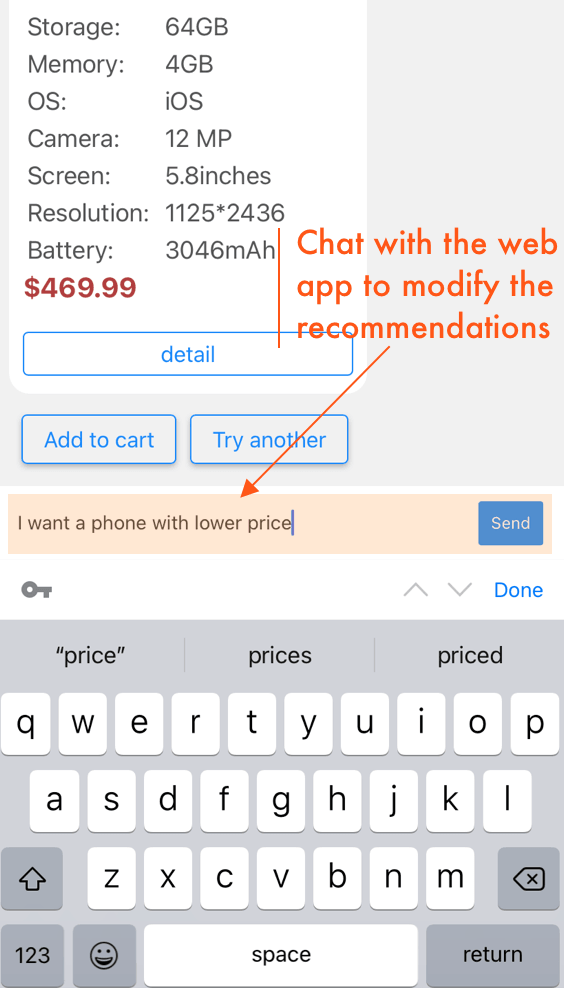
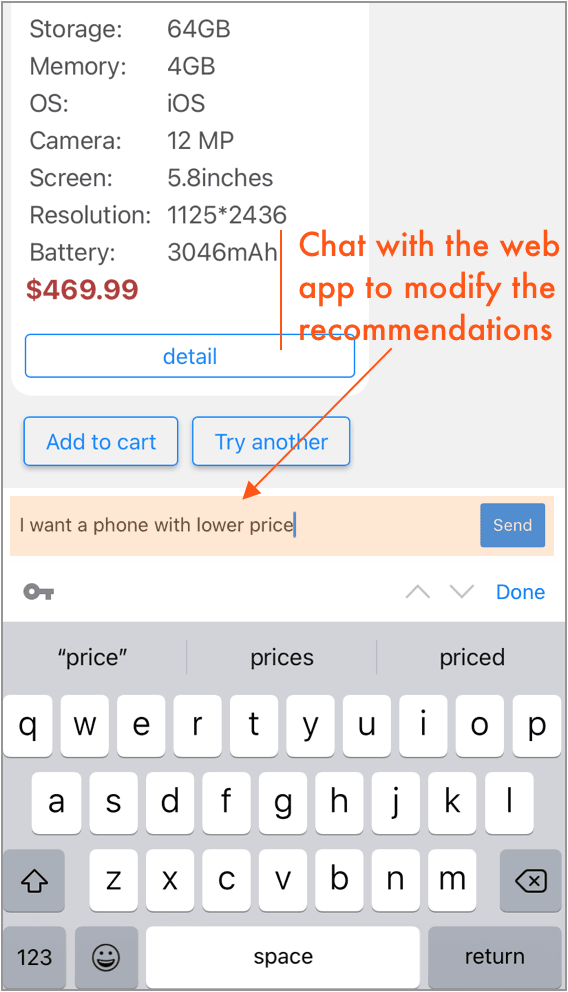
introduction update!

diff --git a/src/views/Index.vue b/src/views/Index.vue
@@ -56,7 +56,7 @@
         recommendations may not fit your taste, we encourage you to <b>tune recommendations by chatting</b> with the web
         app. All mobile phone information used in this experiment was from gsmarena.com.</p>
       <van-image
-          width="100%"
+          width="90%"
           fit="contain"
           :src="require('../assets/imgs/typing.png')"
       />
@@ -68,7 +68,7 @@
         </li>
         <li><b>Step 2:</b> Fill out your personal background.</li>
         <van-image
-            width="100%"
+            width="90%"
             fit="contain"
             :src="require('../assets/imgs/background.png')"
         />
@@ -78,18 +78,18 @@
 
         <van-image
             v-if="condition<3"
-            width="100%"
+            width="90%"
             fit="contain"
             :src="require('../assets/imgs/chatintro-base.png')"
         />
         <van-image
             v-else
-            width="100%"
+            width="90%"
             fit="contain"
             :src="require('../assets/imgs/chatintro-avatar.png')"
         />
         <van-image
-            width="100%"
+            width="90%"
             fit="contain"
             :src="require('../assets/imgs/tips.png')"
         />
@@ -97,13 +97,13 @@
         <li><b>Step 4:</b> Specify what kinds of phones you are looking for in a pop-up window.</li>
         <van-image
             v-if="condition<3"
-            width="100%"
+            width="90%"
             fit="contain"
             :src="require('../assets/imgs/preference-base.png')"
         />
         <van-image
             v-else
-            width="100%"
+            width="90%"
             fit="contain"
             :src="require('../assets/imgs/preference-avatar.png')"
         />
@@ -111,7 +111,7 @@
           you like or dislike the phone.
         </li>
         <van-image
-            width="100%"
+            width="90%"
             fit="contain"
             :src="require('../assets/imgs/card.png')"
         />
@@ -119,13 +119,13 @@
         <li><b>Step 6:</b> You need to rate the phone after adding it to the shopping cart.</li>
         <van-image
             v-if="condition<3"
-            width="100%"
+            width="90%"
             fit="contain"
             :src="require('../assets/imgs/rate-base.png')"
         />
         <van-image
             v-else
-            width="100%"
+            width="90%"
             fit="contain"
             :src="require('../assets/imgs/rate-avatar.png')"
         />
@@ -133,14 +133,14 @@
           shopping cart.
         </li>
         <van-image
-            width="100%"
+            width="90%"
             fit="contain"
             :src="require('../assets/imgs/question.png')"
         />
 
         <li><b>Step 8:</b> Copy the code to the platform to verify the finished task and get a reward.</li>
         <van-image
-            width="100%"
+            width="90%"
             fit="contain"
             :src="require('../assets/imgs/code.png')"
         />
@@ -155,7 +155,7 @@
       <p>We greatly appreciate your efforts and time in advance.</p>
       <div style="margin: 24px 16px;padding-bottom:48px">
         <van-button round block type="info" :disabled="startStatus" native-type="submit" :loading="loading1"
-                    @click="next">Start Study
+                    @click="next">Tutorial Video
           <van-count-down
               ref="countDown"
               millisecond
